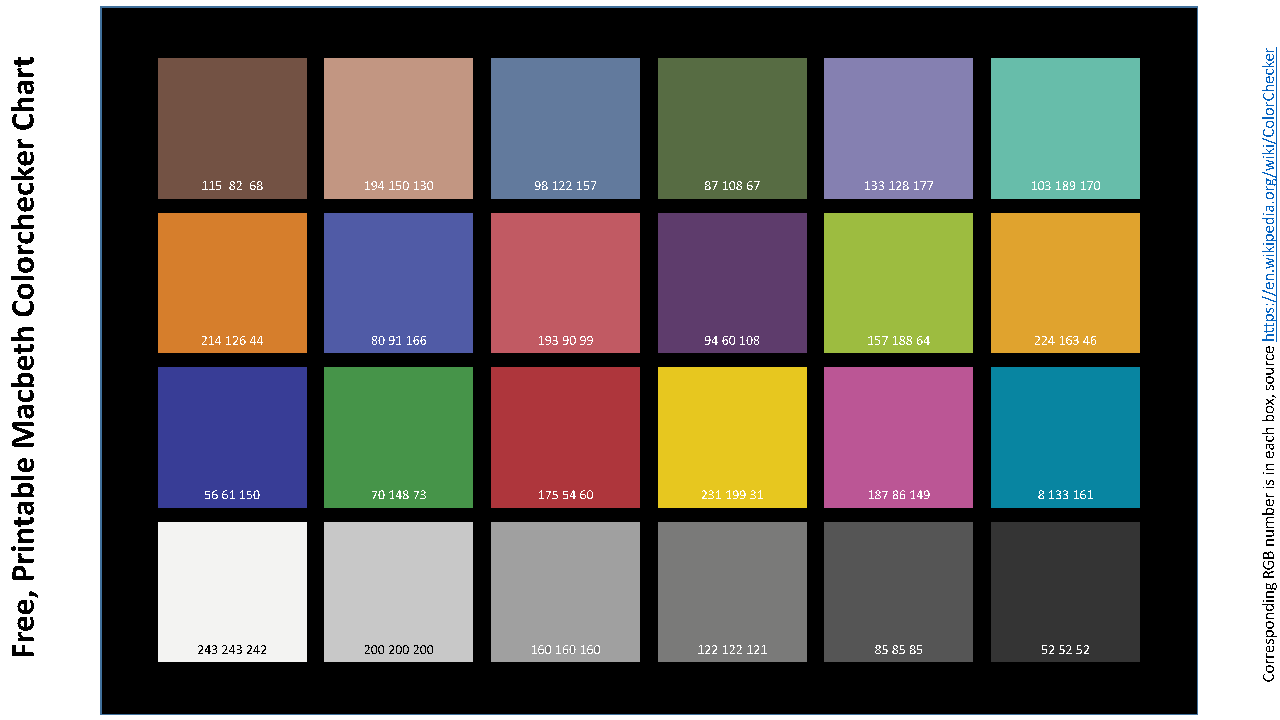
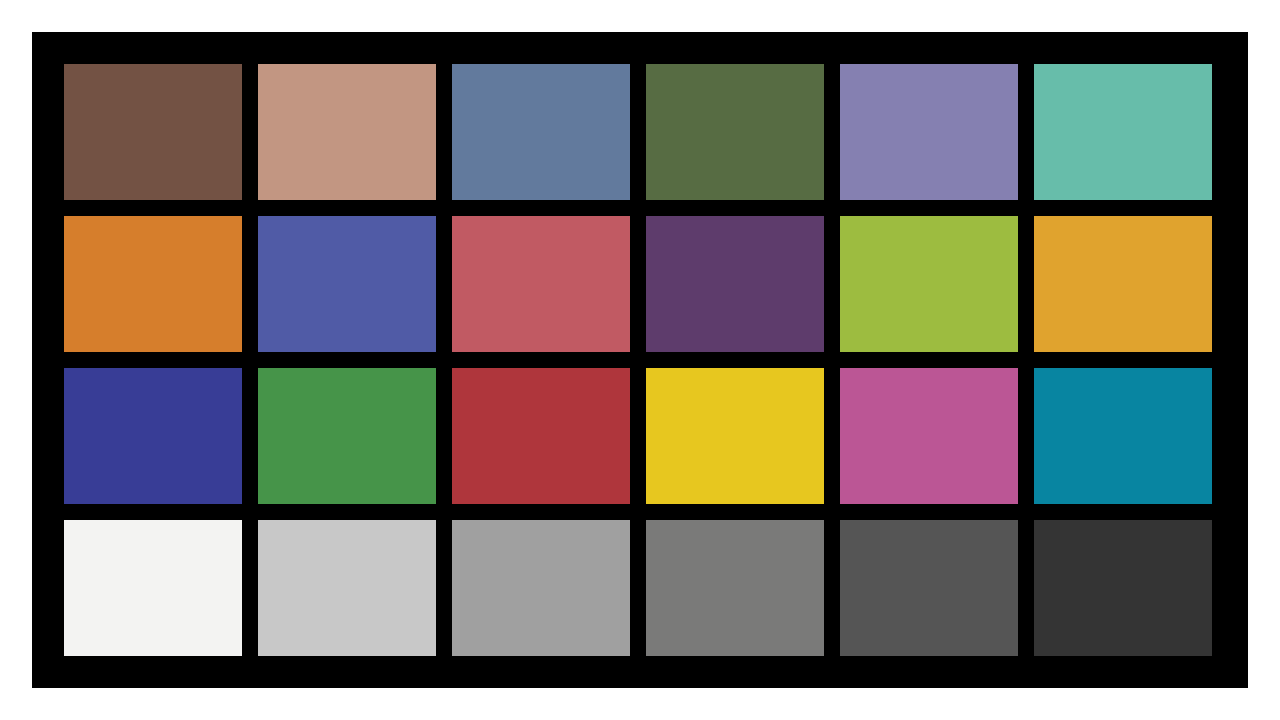
igl | shell | Add MacbethTexture720 mode to ColorSession
Reviewed By: dmannemela

Differential Revision: D102015333

fbshipit-source-id: 32c4ce29e5a3208be784b1534cd96601137e3e4a

diff --git a/shell/renderSessions/ColorSession.cpp b/shell/renderSessions/ColorSession.cpp
@@ -527,6 +527,8 @@ void ColorSession::initialize() noexcept {
 
   if (colorTestModes_ == ColorTestModes::MacbethTexture) {
     tex0_ = getPlatform().loadTexture("macbeth.png", true, swapchainColorTextureformat_);
+  } else if (colorTestModes_ == ColorTestModes::MacbethTexture720) {
+    tex0_ = getPlatform().loadTexture("macbeth720.png", true, swapchainColorTextureformat_);
   } else if (colorTestModes_ == ColorTestModes::MacbethTextureKtx) {
     tex0_ = getPlatform().loadTexture("macbeth.ktx", true, swapchainColorTextureformat_);
   } else if (colorTestModes_ == ColorTestModes::MacbethTextureKtx2) {

diff --git a/shell/renderSessions/ColorSession.h b/shell/renderSessions/ColorSession.h
@@ -29,6 +29,7 @@ class ColorSession : public RenderSession {
 
   enum class ColorTestModes {
     MacbethTexture,
+    MacbethTexture720,
     MacbethTextureKtx,
     MacbethTextureKtx2,
     // @fb-only
